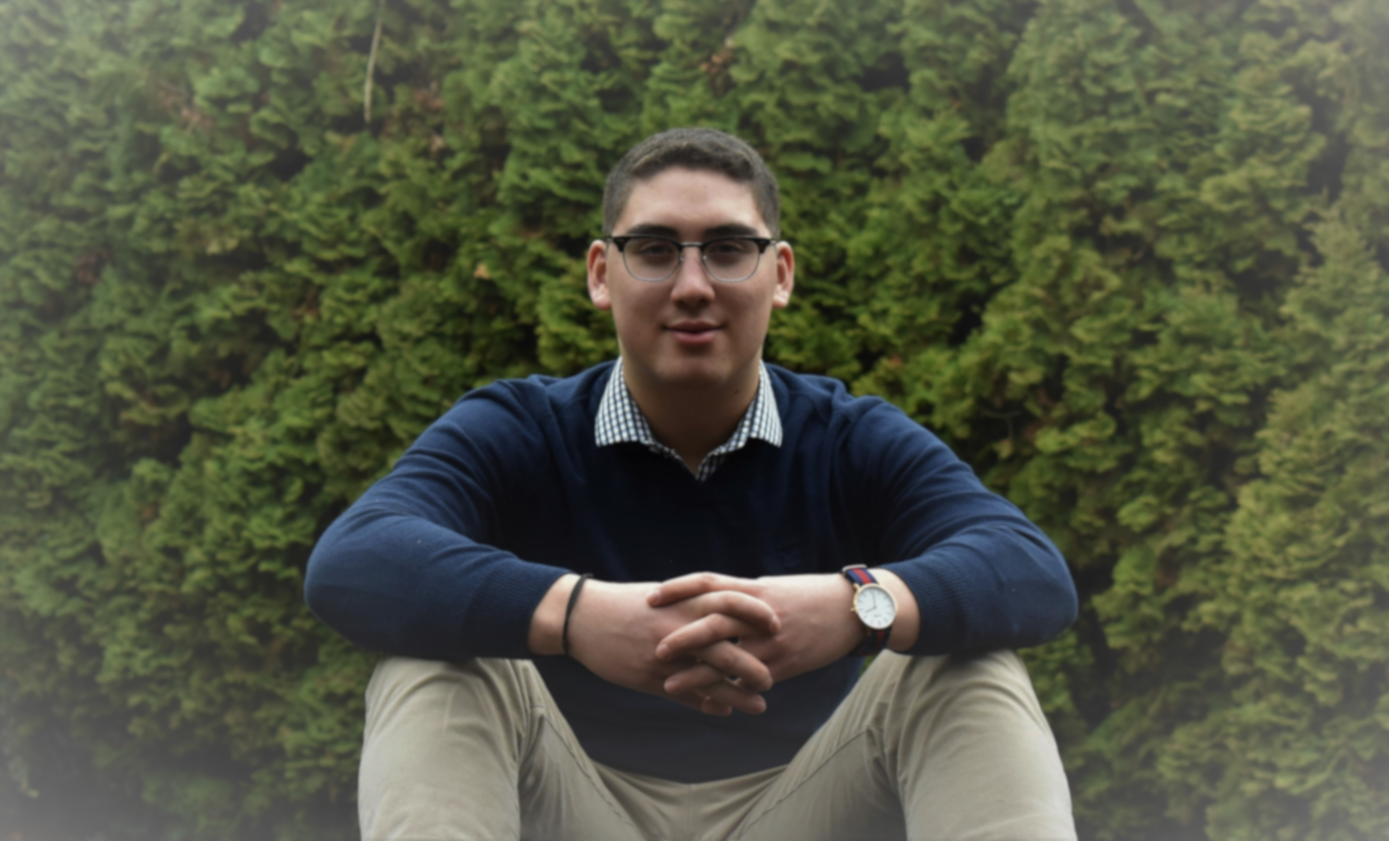
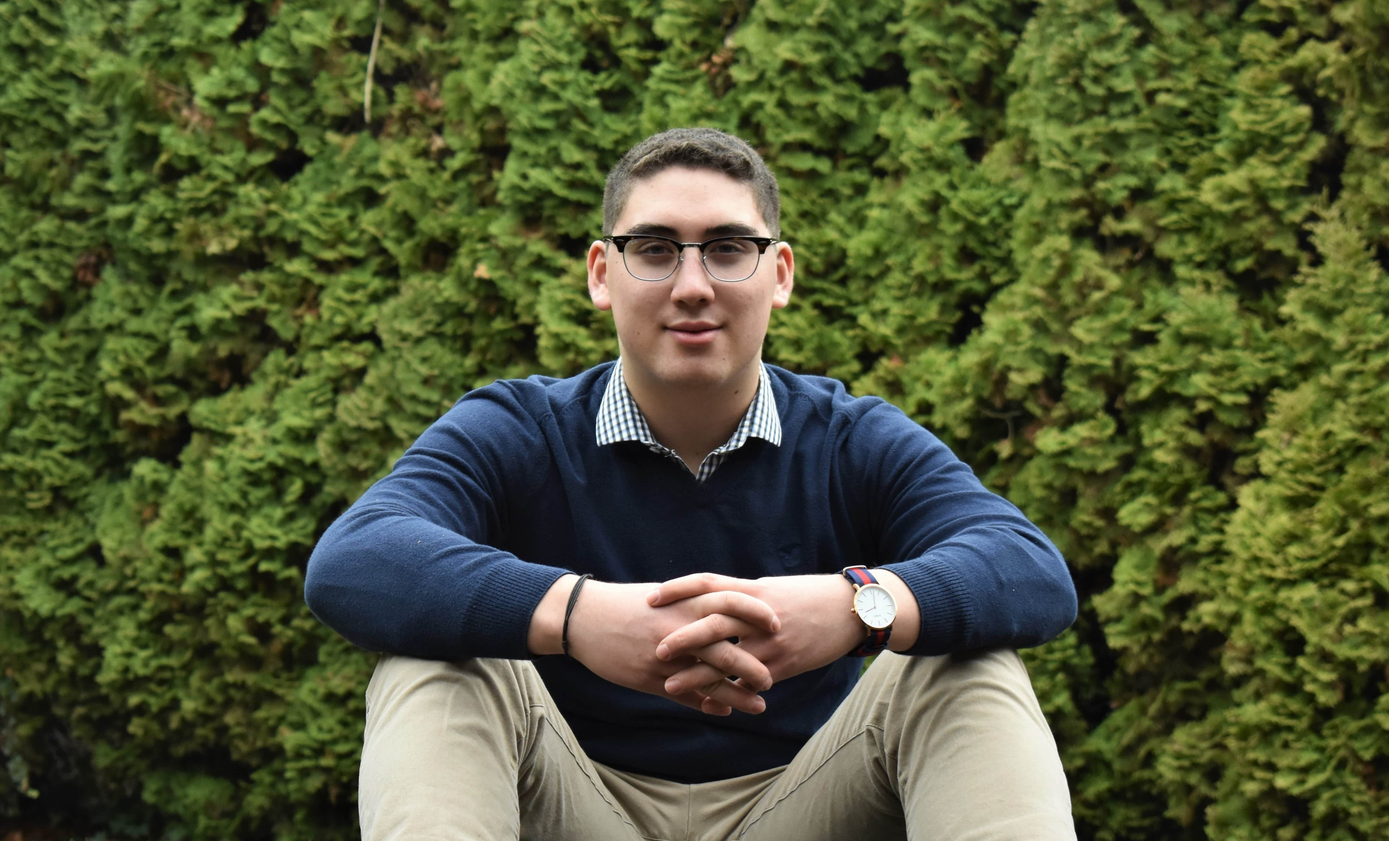
resize noah header imgs

diff --git a/images/image_processing.py b/images/image_processing.py
@@ -90,3 +90,5 @@ if __name__ == "__main__":
     resize_images_in_folder(r".\images\about", width=800, height=600, exclude=['background', 'principles'])
     print()
     resize_images_in_folder(r".\images\contact", width=800, height=600, exclude=['affiliated'])
+    print()
+    resize_images_in_folder(r".\images\noah", width=1600, height=1600, exclude=['orig'])
